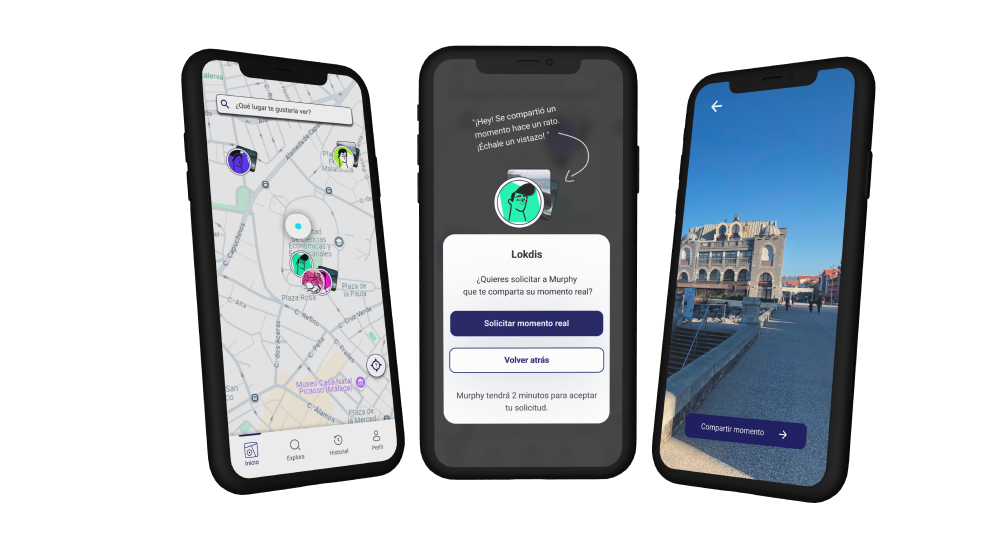
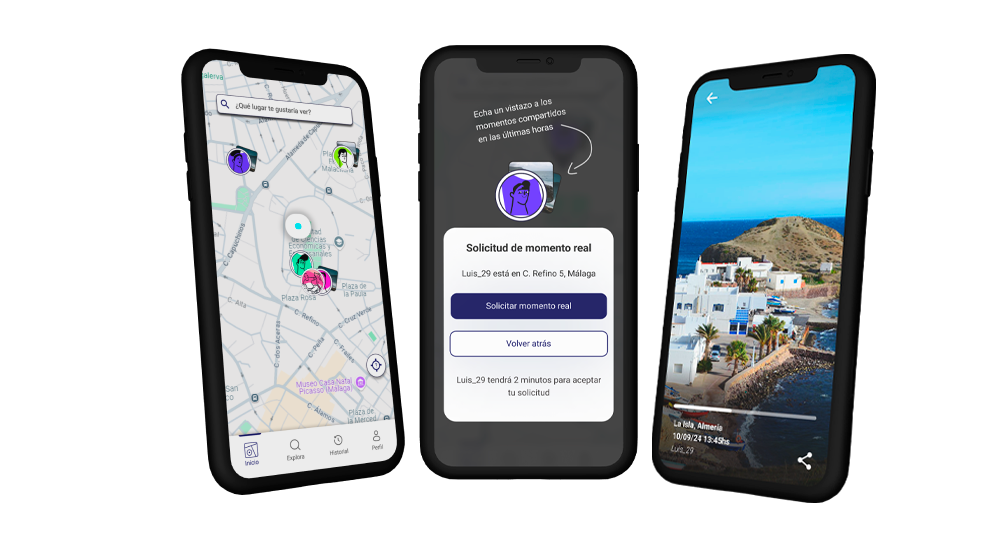
fixes images phone in design, dektop and mobile

diff --git a/src/UIElements/BlockFourth/BlockFourth.jsx b/src/UIElements/BlockFourth/BlockFourth.jsx
@@ -3,7 +3,8 @@ import styles from './styles/blockFourth.module.css';
 import stylesSmall from './styles/blockFourthSmall.module.css';
 import stylesMedium from './styles/blockFourthMedium.module.css';
 import stylesLarge from './styles/blockFourthLarge.module.css';
-import allMoviles from '../Assets/block-fourth-phones.png';
+import allMobiles from '../Assets/block-fourth-phones.png';
+import allMobilesEn from '../Assets/block-fourth-phones-en.png';
 import elipse from '../Assets/elipse.png';
 import arrowDown from '../Bloque-3/Images/curvedArrow.gif';
 import arrowUp from '../Bloque-3/Images/curvedArrow3.gif';
@@ -11,20 +12,17 @@ import movilSmallOne from '../Assets/image-incline-one.png';
 import movilSmallOneNotSelect from '../Assets/image-small-one.png';
 import movilSmallTwo from '../Assets/image-small-two.png';
 import movilSmallTwoNotSelect from '../Assets/image-incline-two.png';
-import movilSmallThre from '../Assets/movil-large-thre.png';
-import movilSmallThreNotSelect from '../Assets/image-incline-three.png';
+import movilSmallThre from '../Assets/movilthree-design-en.png';
+import movilSmallThreNotSelect from '../Assets/movil-three-en-incline.png';
 import movilLargeOne from '../Assets/movilone-design.png';
 import movilLargeTwo from '../Assets/movil-two-large.png';
-import movilLargeThre from '../Assets/movil-large-thre.png'
+import movilLargeThre from '../Assets/movilthree-design-en.png'
 import avatar1 from '../Assets/avatar1.png';
 import avatar2 from '../Assets/avatar2.png';
 // english phones
 import movilOneEnglish from '../Assets/movilone-design-en.png';
 import movilTwoEnglish from '../Assets/moviltwo-design-en.png';
 import movilThreEnglish from '../Assets/movilthree-design-en.png';
-import movilInclinedOneEnglish from '../Assets/image-incline-one-en.png';
-import movilInclinedTwoEnglish from '../Assets/image-incline-two-en.png';
-import movilInclinedThreEnglish from '../Assets/image-incline-three-en.png';
 
 import { useEffect, useState } from 'react';
 
@@ -98,8 +96,6 @@ const BlockFourth = ({ language }) => {
 
             </div>
 
-
-
             <div className={`${styles.containerBannerPhotoMovil} ${stylesSmall.containerBannerPhotoMovil} `} >
 
                 {selectedImage === 'image1' ? <div className={`${styles.containerSmallPhotoMap} ${styles.selected} ${stylesSmall.containerSmallPhotoMap} ${stylesSmall.selected}`} onClick={() => handleToggle('image1')}>
@@ -145,13 +141,13 @@ const BlockFourth = ({ language }) => {
                     On the map you will see the people who are available in the app and their locations
                 </p>) : null}
 
-                {selectedImage === 'image1' ? <img style={{ width: '770px', }} src={movilLargeOne} alt="Imagen grande del movil uno" /> : null}
+                {selectedImage === 'image1' ? (language === 'spanish' ? <img style={{ width: '770px', }} src={movilLargeOne} alt="Imagen grande del movil uno" /> : <img style={{ width: '770px', }} src={movilOneEnglish} alt="Imagen grande del movil uno en ingles" />) : null}
                 {selectedImage === 'image2' ? (language === 'spanish' ? <p className={` ${stylesSmall.paragraphTwoMovilDesign}`} >
                     Podrás pedirle momentos  <span className={styles.remaining} >reales a las personas que estén en los lugares que quieres ver</span>
                 </p> : <p className={` ${stylesSmall.paragraphTwoMovilDesign}`} >You will be able to request real moments
                     from people who are in the places you want to see
                 </p>) : null}
-                {selectedImage === 'image2' ? <img style={{ width: '770px' }} src={movilLargeTwo} alt="Imagen grande del movil dos" /> : null}
+                {selectedImage === 'image2' ? (language === 'spanish' ? <img style={{ width: '770px' }} src={movilLargeTwo} alt="Imagen grande del movil dos" /> : <img style={{ width: '770px' }} src={movilTwoEnglish} alt="Imagen grande del movil dos ingles" />) : null}
 
                 {selectedImage === 'image3' ? (language === 'spanish' ? <p className={`${stylesSmall.paragraphTwoMovilDesign}`} >
                     ¡Explora los lugares que quieras, cuando quieras!
@@ -195,7 +191,7 @@ const BlockFourth = ({ language }) => {
 
                 <div className={`${styles.containerPhotos} ${stylesSmall.containerPhotos} ${stylesMedium.containerPhotos} ${stylesLarge.containerPhotos}`} >
 
-                    <img className={`${styles.allMoviles} ${stylesMedium.allMoviles} ${stylesLarge.allMoviles}`} src={allMoviles} alt='Movil Uno' />
+                    {language === 'spanish' ? < img className={`${styles.allMoviles} ${stylesMedium.allMoviles} ${stylesLarge.allMoviles}`} src={allMobiles} alt='Movil Uno' /> : < img className={`${styles.allMoviles} ${stylesMedium.allMoviles} ${stylesLarge.allMoviles}`} src={allMobilesEn} alt='Movil Uno' />}
                     <div className={`${styles.elipseContainer} ${stylesMedium.elipseContainer} ${stylesLarge.elipseContainer}`} >
                         <img className={styles.elipse} src={elipse} alt='Elipse' />
                     </div>

diff --git a/src/UIElements/BlockTwo/styles/blocktwoLarge.module.css b/src/UIElements/BlockTwo/styles/blocktwoLarge.module.css
@@ -39,14 +39,15 @@
 
     .firstTextLeftContainer {
         line-height: 2rem;
-        font-size: 2.5vw;
+        font-size: 30px;
         font-family: 'Poppins-Regular';
         font-weight: bold;
 
     }
 
     .firstTextLeftContainerEnglish {
-        font-size: 1.7rem
+        font-size: 30px;
+        font-weight: bold;
     }
 
 
@@ -62,13 +63,13 @@
     .thirdText {
         font-family: 'Poppins-Regular';
         font-weight: bold;
-        font-size: 1.8rem;
+        font-size: 30px;
         background-color: #00FFD7;
 
     }
 
     .secondTextLeftContainer {
-        font-size: 1.8rem;
+        font-size: 30px;
         font-family: 'Poppins-Regular';
         font-weight: bold;
         line-height: 0rem;
@@ -84,18 +85,14 @@
 
     .textH3 {
         font-family: 'Poppins-Regular';
-        font-size: 1.5rem;
+        font-size: 28px;
         margin-bottom: -10vh;
     }
 
-    .fourthText {
-        font-size: 0.9rem;
-        font-family: 'Poppins-Regular';
 
-    }
 
     .additionalText {
-        font-size: 2vw;
+        font-size: 20px;
         text-align: left;
     }
 
@@ -175,14 +172,14 @@
 
 
     .letterParagraph {
-        font-size: 2vw;
+        font-size: 20px;
         text-align: left;
     }
 
 
     .fourthText {
         font-family: 'Poppins-Regular';
-        font-size: 2vw;
+        font-size: 20px;
         color: #028470;
 
     }
@@ -436,7 +433,7 @@
     .firstTextLeftContainer,
     .firstTextLeftContainerEnglish {
         line-height: 4rem;
-        font-size: 2rem;
+        font-size: 30px;
         font-family: 'Poppins-Regular';
         font-weight: bold;
 
@@ -444,7 +441,7 @@
     }
 
     .firstTextLeftContainerEnglish {
-        font-size: 2.0rem
+        font-size: 30px
     }
 
     .containerBlueLetter {
@@ -465,7 +462,7 @@
     .thirdTextEnglish {
         font-family: 'Poppins-Regular';
         font-weight: bold;
-        font-size: 2rem;
+        font-size: 30px;
         background-color: #00FFD7;
     }
 
@@ -473,7 +470,7 @@
 
     .secondTextLeftContainer,
     .secondTextLeftContainerEnglish {
-        font-size: 2.35rem;
+        font-size: 30px;
         font-family: 'Poppins-Regular';
         font-weight: bold;
         line-height: 1rem;
@@ -481,11 +478,6 @@
 
     }
 
-
-
-    .secondTextLeftContainerEnglish {
-        font-size: 2.0rem
-    }
 
     .leftContainer {
 
@@ -496,26 +488,15 @@
 
     .textH3 {
         font-family: 'Poppins-Regular';
-        font-size: 2rem;
+        font-size: 30px;
         line-height: 0rem;
         margin-top: 25px;
     }
 
-    .letterParagraph {
-        font-size: 2rem !important;
-        text-align: left;
-        margin-top: -6vh;
-        margin-left: 1vh;
-    }
 
-    .fourthText {
-        font-size: 2rem !important;
-        font-family: 'Poppins-Regular';
-
-    }
 
     .additionalText {
-        font-size: 35px;
+        font-size: 20px;
         text-align: left;
         margin-top: 1.5rem;
     }
@@ -601,13 +582,13 @@
     .letterParagraph {
         user-select: none;
         font-family: 'Poppins-Regular';
-        font-size: 2rem !important;
+        font-size: 20px;
 
     }
 
     .fourthText {
         font-family: 'Poppins-Regular';
-        font-size: 2rem !important;
+        font-size: 20px;
         color: #028470;
 
     }

diff --git a/src/UIElements/Homepage/Homepage.js b/src/UIElements/Homepage/Homepage.js
@@ -139,7 +139,7 @@ export const Homepage = ({ language, setLanguage }) => {
       ref={mainDivRef}
       className={styles.fatherContainer}
     >
-      {/* 
+
       <div style={{
         position: 'fixed',
         bottom: 0,
@@ -150,7 +150,7 @@ export const Homepage = ({ language, setLanguage }) => {
         zIndex: 100
       }}>
         {`Current screen resolution: ${window.innerWidth} x ${window.innerHeight}`}
-      </div> */}
+      </div>
 
       {/* Componente Navbar */}
       <div
